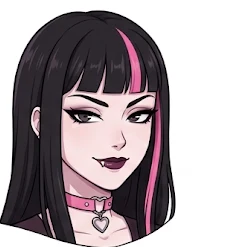
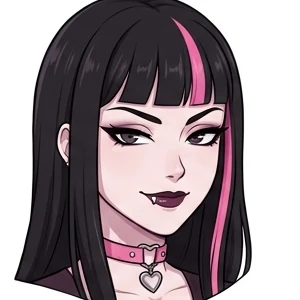
Schärfere Bilder: Figur und Gesichter aus den großen Gemini-Bildern neu geschnitten
Claude-Session: https://claude.ai/code/session_01D4YkhpN6ycfeEKpA9iUcLJ

diff --git a/index.html b/index.html
@@ -17,18 +17,19 @@
 .hero-lead{font-size:22px;max-width:34ch}
 .altar{display:flex;justify-content:center;align-items:flex-end;gap:12px}
 .altar svg{flex:none}
-.arch{width:340px;max-width:100%;aspect-ratio:240/557;background:#fff;border:4px solid var(--pink);border-radius:170px 170px 18px 18px;overflow:hidden;box-shadow:0 0 60px rgba(255,79,163,.35)}
-.arch img{width:100%;height:100%;object-fit:cover;display:block}
+.arch{width:340px;max-width:100%;aspect-ratio:614/1024;background:#fff;border:4px solid var(--pink);border-radius:170px 170px 18px 18px;overflow:hidden;box-shadow:0 0 60px rgba(255,79,163,.35)}
+.arch img{width:100%;height:100%;object-fit:cover;object-position:top;display:block}
 .flame{transform-origin:50% 100%;animation:flicker 2.6s ease-in-out infinite}
 @keyframes flicker{0%,100%{transform:scale(1)}40%{transform:scale(.92,1.06)}70%{transform:scale(1.04,.96)}}
 .two{display:grid;grid-template-columns:repeat(auto-fit,minmax(min(100%,320px),1fr));gap:48px;align-items:start}
-.faces{display:flex;gap:12px;margin:18px 0}
+.faces{display:flex;flex-wrap:wrap;gap:12px;margin:18px 0}
 .faces img{width:96px;height:96px;object-fit:cover;border-radius:50%;border:3px solid var(--pink);background:#fff}
+@media (max-width:460px){.faces img{width:72px;height:72px}}
 .motto{font-family:var(--poem);font-style:italic;font-size:26px;color:#E6CFDB}
 dl{margin:0}
 dl div{display:grid;grid-template-columns:repeat(auto-fit,minmax(160px,1fr));gap:4px 20px;padding:14px 0;border-bottom:1px dashed var(--line2)}
 dt{font-weight:800;color:var(--pink)}
-dd{margin:0}
+dd{margin:0;hyphens:auto;overflow-wrap:anywhere}
 .head-row{display:flex;flex-wrap:wrap;justify-content:space-between;align-items:baseline;gap:12px;margin-bottom:36px}
 .diary{display:grid;grid-template-columns:repeat(auto-fit,minmax(min(100%,300px),1fr));gap:24px}
 .entry blockquote,.entry figcaption{margin:0}
@@ -90,7 +91,7 @@ dd{margin:0}
     </div>
     <div class="altar">
       <svg aria-hidden="true" viewBox="0 0 40 160" width="40" height="160"><path class="flame" d="M20 4Q12 18 20 30Q28 18 20 4Z" fill="#FFD27A"/><rect x="10" y="34" width="20" height="120" rx="4" fill="#E9DDE3"/><path d="M10 52q6 10 0 22" fill="none" stroke="#C9B9C2" stroke-width="4"/></svg>
-      <div class="arch"><img src="assets/figur/figur-vorne.webp" width="240" height="557" alt="Die Figur von Oida Leberkas: eine junge Frau im Anime-Stil mit langen schwarzen Haaren, pinker Strähne, Spitzenbluse und Plateaustiefeln"></div>
+      <div class="arch"><img src="assets/figur/figur-vorne.webp" width="614" height="1024" alt="Die Figur von Oida Leberkas: eine junge Frau im Anime-Stil mit langen schwarzen Haaren, pinker Strähne und Spitzenbluse, hält verliebt eine Leberkässemmel"></div>
       <svg aria-hidden="true" viewBox="0 0 40 120" width="40" height="120"><path class="flame" d="M20 4Q12 18 20 30Q28 18 20 4Z" fill="#FFD27A"/><rect x="10" y="34" width="20" height="82" rx="4" fill="#E9DDE3"/></svg>
     </div>
   </div>
@@ -101,9 +102,10 @@ dd{margin:0}
     <div>
       <h2>Steckbrief</h2>
       <div class="faces">
-        <img src="assets/figur/gesicht-frech.webp" width="240" height="247" alt="Ihr Gesicht, frech" loading="lazy">
-        <img src="assets/figur/gesicht-verliebt.webp" width="234" height="247" alt="Ihr Gesicht, verliebt in Leberkas" loading="lazy">
-        <img src="assets/figur/gesicht-grantig.webp" width="240" height="250" alt="Ihr Gesicht, grantig" loading="lazy">
+        <img src="assets/figur/gesicht-frech.webp" width="300" height="300" alt="Ihr Gesicht, frech" loading="lazy">
+        <img src="assets/figur/gesicht-verliebt.webp" width="300" height="300" alt="Ihr Gesicht, verliebt in Leberkas" loading="lazy">
+        <img src="assets/figur/gesicht-grantig.webp" width="300" height="300" alt="Ihr Gesicht, grantig" loading="lazy">
+        <img src="assets/figur/gesicht-geschockt.webp" width="300" height="300" alt="Ihr Gesicht, geschockt" loading="lazy">
       </div>
       <p class="motto">„Alles is vergänglich. Außer mei Hunger.“</p>
     </div>
